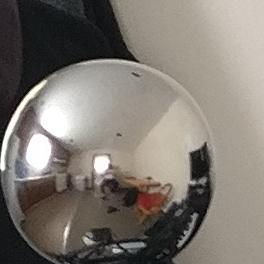
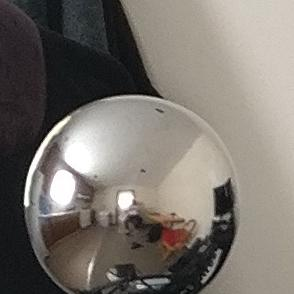
Getting an HDR image works now

diff --git a/nickApartment.m b/nickApartment.m
@@ -16,7 +16,7 @@ end
 rectangle(4) = rectangle(3);
 
 for i=1:numImgs
-    [cropped{i}, rectangle] = imcrop(origImages{i}, rectangle);
+    cropped{i} = imcrop(origImages{i}, rectangle);
     
     cropPath = strcat('NickApartment/croppedSphereImages/im', num2str(i), '.jpg');
     imwrite(cropped{i}, cropPath);
@@ -42,9 +42,9 @@ for i = 1:numImgs
     im = cropped{i};
     for c = 1:3
         % Get the image for the color channel
-        im_c = reshape(im1(:,:,c), height*width, 1);
-        start = (c-1)*height*width + 1;
-        stop = c*height*width;
+        im_c = reshape(im(:,:,c), height*width, 1);
+        start = (c-1)*height*width + 1
+        stop = c*height*width
         Z(start:stop, i) = im_c;
     end
 end
